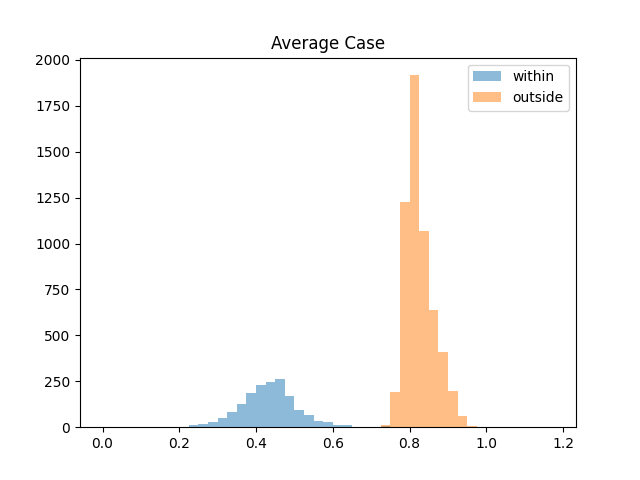
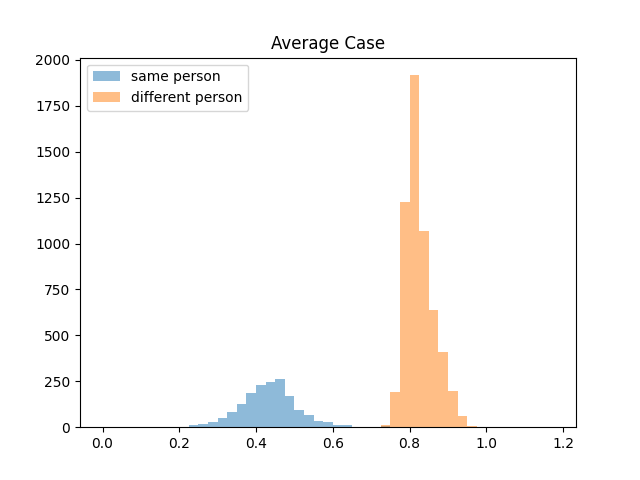
swapped to picamera

Changed region(s): [[0.125, 0.125, 0.375, 0.2188], [0.7188, 0.125, 0.9062, 0.2188]]

diff --git a/src/video_laptop.py b/src/video_laptop.py
@@ -1,7 +1,5 @@
 import face_recognition
 import cv2
-from picamera import PiCamera
-from time import time as get_time
 
 FILE_SEPARATOR = "/"
 
@@ -14,15 +12,8 @@ FILE_SEPARATOR = "/"
 # OpenCV is *not* required to use the face_recognition library. It's only required if you want to run this
 # specific demo. If you have trouble installing it, try any of the other demos that don't require it instead.
 
-camera = PiCamera()
-camera.resolution = (1024, 768)
-camera.start_preview()
-
-# Camera warm-up time
-start_time = get_time()
-while get_time() < start_time + 2:
-    pass
-camera.capture('foo.jpg')
+# Get a reference to webcam #0 (the default one)
+video_capture = cv2.VideoCapture(0)
 
 # Load a sample picture and learn how to recognize it.
 obama_image = face_recognition.load_image_file(f"img{FILE_SEPARATOR}obama.jpg")
@@ -57,12 +48,9 @@ face_encodings = []
 face_names = []
 process_this_frame = True
 
-
-
-'''
 while True:
     # Grab a single frame of video
-    frame = camera.capture()
+    ret, frame = video_capture.read()
 
     # Resize frame of video to 1/4 size for faster face recognition processing
     small_frame = cv2.resize(frame, (0, 0), fx=0.25, fy=0.25)
@@ -124,4 +112,3 @@ while True:
 # Release handle to the webcam
 video_capture.release()
 cv2.destroyAllWindows()
-'''

diff --git a/src/analyze.py b/src/analyze.py
@@ -20,8 +20,8 @@ with open("analysis.txt", 'r') as rf:
             outside.append(o_avg)
 
 bins = [0.025*n for n in range(48)]
-plt.hist(within, bins, alpha=0.5, label="within")
-plt.hist(outside, bins, alpha=0.5, label="outside")
-plt.legend(loc="upper right")
+plt.hist(within, bins, alpha=0.5, label="same person")
+plt.hist(outside, bins, alpha=0.5, label="different person")
+plt.legend(loc="upper left")
 plt.title("Average Case")
 plt.show()
